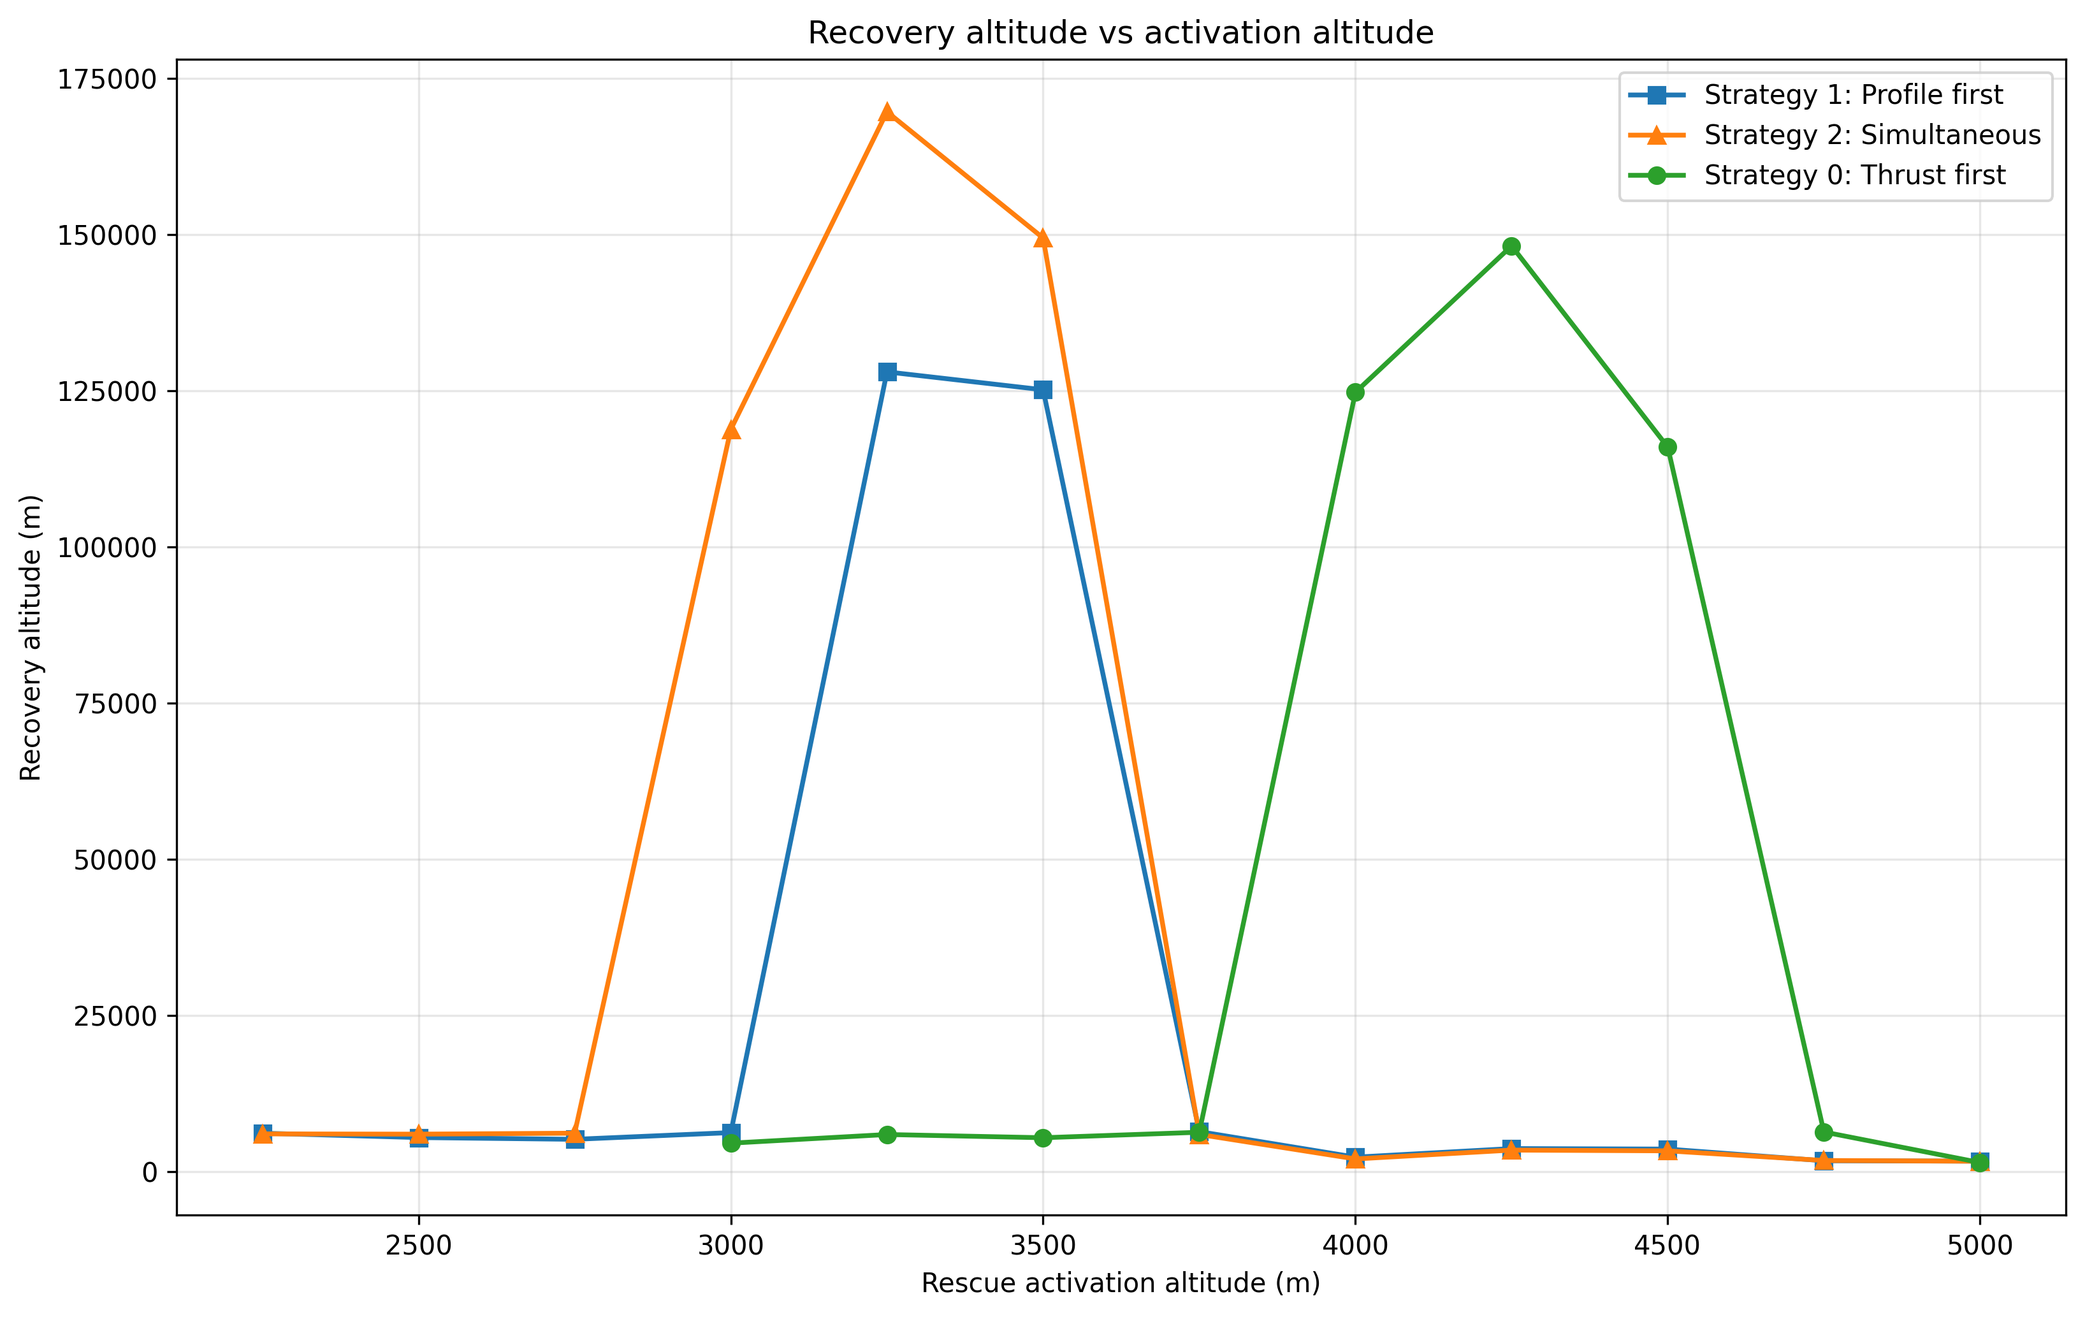
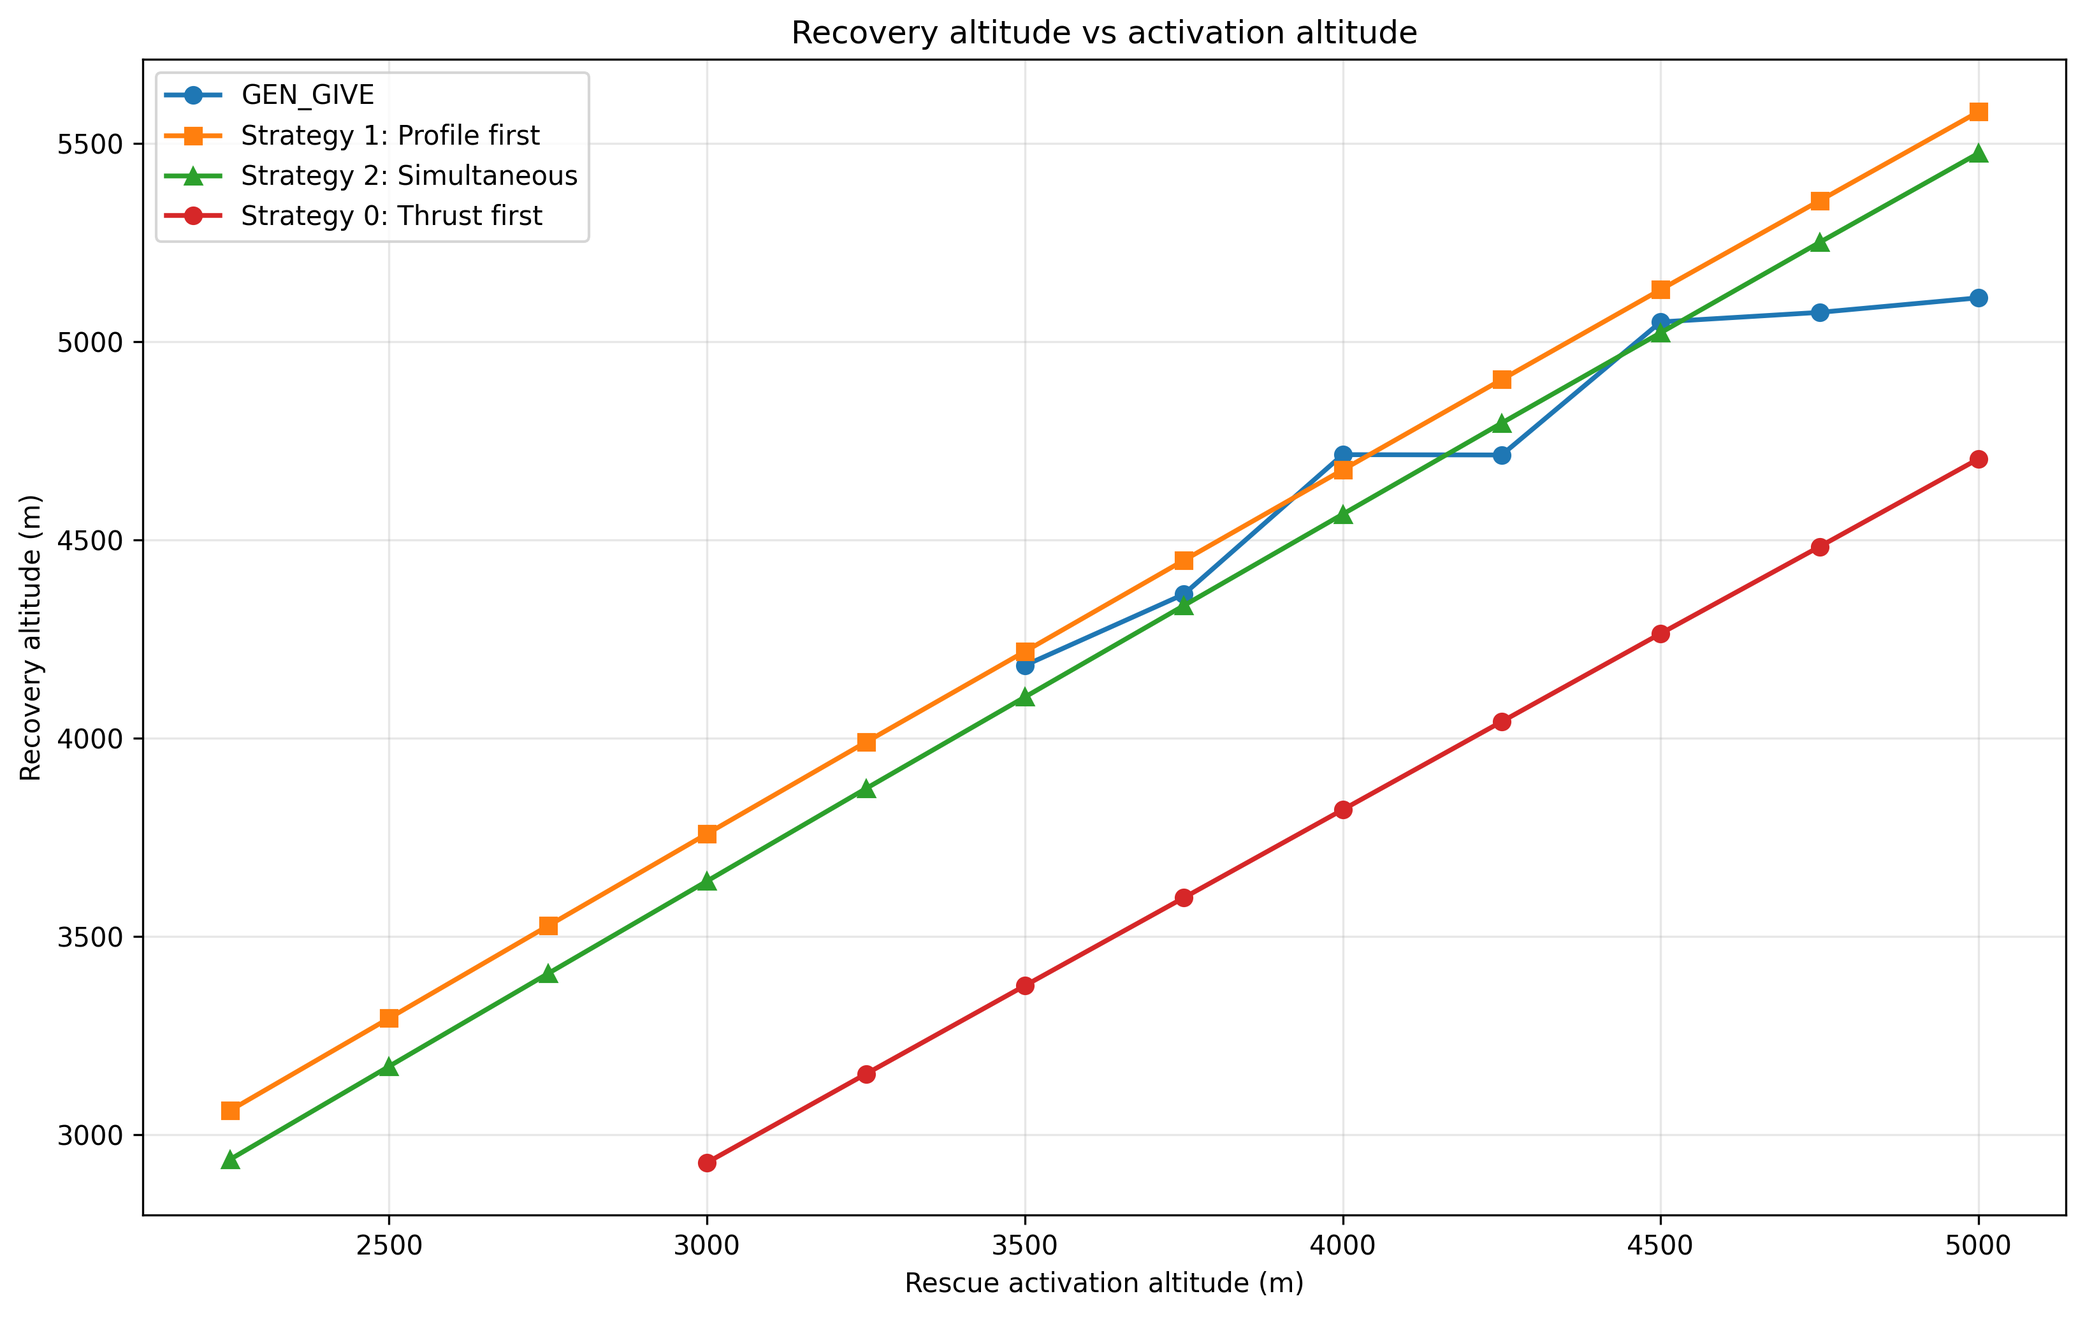
Comparaison avec les autres methodes de sauvetage + nouveau initialiseur

diff --git a/codecpp/Simulateur.cpp b/codecpp/Simulateur.cpp
@@ -270,95 +270,9 @@ double Simulateur::executer(OptiSauvetageGeneral::ParamsRescue* chromo) {  // em
             }
         }
         
-        // End rescue management
-        
-        // Multi-phase sequence before stall: AF447-like scenario
-        // Phase 0 (10s): Autopilot disconnect - passive speed loss
-        // Phase 1 (20s): Pilot increases thrust to recover speed (theta & gamma up together)
-        // Phase 2 (20s): Pilot releases thrust - speed drops again
-        // Phase 3: Stall alarm + pilot pitches up aggressively
+       
         if (!rescue_hold_active && !rescue_cooldown_active && !rescue_activated) {
-            // double phase0_start = test_cmd_start - 50.0;  // Autopilot off
-            // double phase1_start = test_cmd_start - 40.0;  // Pilot pushes thrust
-            // double phase2_start = phase1_start + 20.0;    // 20s climb guidance
             
-            // // Phase 0: Autopilot disconnect - passive energy loss (first 10s)
-            // if (t >= phase0_start && t < phase1_start) {
-            //     // thrust reduction: cmd_thrust_trim → 0.5
-            //     double thrust_factor = cmd_thrust_trim * 0.5;
-                
-            //     avion.get_controle().set_commande_profondeur(0.0);  // Elevator at trim
-            //     avion.get_controle().set_commande_thrust(thrust_factor);
-            // }
-            // // Phase 1: Guidance climb for 20s - raise gamma while holding alpha
-            // else if (t >= phase1_start && t < phase2_start) {
-            //     double t_rel = t - phase1_start;
-            //     double ramp = std::min(1.0, std::max(0.0, t_rel / 20.0));
-            //     double gamma_target = 20.0 * DEG_TO_RAD * ramp;
-            //     double alpha_target = alpha_trim;
-            //     double pitch_target = gamma_target + alpha_target;
-            //     double gamma = avion.get_etat().get_gamma();
-            //     double alpha_now = avion.get_etat().get_alpha();
-            //     double pitch_now = avion.get_pitch();
-
-            //     double k_alpha = 1.0;
-            //     double k_pitch = 2.0;
-            //     double k_gamma = 3.0;
-            //     double base_thrust = std::isnan(cmd_thrust_trim) ? 0.0 : cmd_thrust_trim;
-
-            //     double cmd_p_raw = -(k_alpha * (alpha_target - alpha_now)
-            //                       + k_pitch * (pitch_target - pitch_now));
-            //     double cmd_p = std::max(-0.4, std::min(0.4, cmd_p_raw));
-            //     double cmd_t_raw = base_thrust + 0.15 + k_gamma * (gamma_target - gamma);
-            //     double cmd_t = std::max(0.0, std::min(1.0, cmd_t_raw));
-
-            //     avion.get_controle().set_commande_profondeur(cmd_p);
-            //     avion.get_controle().set_commande_thrust(cmd_t);
-            // }
-            // // Phase 2: Return to cruise in 20s (gamma -> 0, pitch -> alpha_trim)
-            // else if (t >= phase2_start && t < test_cmd_start) {
-            //     double t_rel = t - phase2_start;
-            //     double ramp = std::min(1.0, std::max(0.0, t_rel / 20.0));
-                
-            //     // Capture initial conditions at start of Phase 2
-            //     static double gamma_initial_ph2 = -1.0;
-            //     static double pitch_initial_ph2 = -1.0;
-            //     if (t_rel < dt) {
-            //         gamma_initial_ph2 = avion.get_etat().get_gamma();
-            //         pitch_initial_ph2 = avion.get_pitch();
-            //     }
-                
-            //     // Target: cruise (gamma -> 0, pitch -> alpha_trim)
-            //     double pitch_final = alpha_trim;
-            //     double gamma_final = 0.0;
-                
-            //     double pitch_target = pitch_initial_ph2 - (pitch_initial_ph2 - pitch_final) * ramp;
-            //     double gamma_target = gamma_initial_ph2 - (gamma_initial_ph2 - gamma_final) * ramp;
-                
-            //     double alpha_now = avion.get_etat().get_alpha();
-            //     double pitch_now = avion.get_pitch();
-            //     double gamma = avion.get_etat().get_gamma();
-
-            //     // Alpha target: return to trim for cruise
-            //     double alpha_target = alpha_trim;
-
-            //     double k_alpha = 3.0;  // Moderate gain
-            //     double k_gamma = 4.0;
-            //     double k_pitch = 6.0;
-                
-            //     double cmd_p_raw = -(k_alpha * (alpha_target - alpha_now)
-            //                       + k_gamma * (gamma_target - gamma)
-            //                       + k_pitch * (pitch_target - pitch_now));
-            //     double cmd_p = std::max(-0.4, std::min(0.4, cmd_p_raw));
-                
-            //     // Thrust returns to trim for cruise
-            //     double base_thrust = std::isnan(cmd_thrust_trim) ? 0.0 : cmd_thrust_trim;
-            //     double cmd_t = base_thrust;
-            //     cmd_t = std::max(0.0, std::min(1.0, cmd_t));
-
-            //     avion.get_controle().set_commande_profondeur(cmd_p);
-            //     avion.get_controle().set_commande_thrust(cmd_t);
-            // }
             // Phase 3: Stall alarm - pilot inputs aggressive elevator command (EXPONENTIAL ramp)
             if (t >= test_cmd_start && t < test_cmd_end) {
                 double ramp_duration = 45.0;  // seconds to reach ~99% of final value

diff --git a/plotting/plot_rescue_comparison.py b/plotting/plot_rescue_comparison.py
@@ -3,7 +3,7 @@ import matplotlib.pyplot as plt
 import numpy as np
 from pathlib import Path
 
-# from typing import Optional  # ← ajouter cette ligne pour etre valable sur des anciens pythons
+from typing import Optional  # can be remove if there is compatibility issue
 
 # Improve default font sizes for better readability
 plt.rcParams.update({
@@ -36,7 +36,7 @@ def normalize_positive(series: pd.Series) -> pd.Series:
     return series / max_val
 
 
-def pick_column(df: pd.DataFrame, preferred: str, fallback: str) -> str | None:   #  def pick_column(df: pd.DataFrame, preferred: str, fallback: str) -> Optional[str]:
+def pick_column(df: pd.DataFrame, preferred: str, fallback: str) -> Optional[str]:  #If optionnal is not included, this line need to be replace by  : def pick_column(df: pd.DataFrame, preferred: str, fallback: str) -> str | None: 
     if preferred in df.columns:
         return preferred
     if fallback in df.columns:
@@ -49,17 +49,14 @@ def main() -> None:
     output_dir = root / "output_file"
     output_plot_dir = root / "output_plot"
     output_plot_dir.mkdir(parents=True, exist_ok=True)
-
     datasets = {
-        "No rescue": output_dir / "baseline_no_rescue.csv",
-        "Strategy 0: Thrust first": output_dir / "strategy0_thrust_first.csv",
-        "Strategy 1: Profile first": output_dir / "strategy1_profile_first.csv",
+        "Strategy 3: Genetic Algorithm": output_dir / "strategy3_genetic_algorithm.csv",
         "Strategy 2: Simultaneous": output_dir / "strategy2_simultaneous.csv",
-        "Strategy 3: Genetic Algorithm": output_dir / "strategy3_genetic_algorithm.csv",  #new for genetic alg (only addition)
+        "Strategy 1: Profile first": output_dir / "strategy1_profile_first.csv",
+        "Strategy 0: Thrust first": output_dir / "strategy0_thrust_first.csv",
+        "No rescue": output_dir / "baseline_no_rescue.csv",
     }
-
     data = {label: load_csv(path) for label, path in datasets.items()}
-
     fig, axes = plt.subplots(4, 1, figsize=(11, 8), sharex=True)
 
     # Altitude comparison for all curves
@@ -69,9 +66,8 @@ def main() -> None:
     axes[0].set_ylabel("Altitude (m)")
     axes[0].set_title("Comparison of rescue strategies", fontsize=16)
     axes[0].grid(True, alpha=0.3)
-    axes[0].legend()
 
-    # Angle of attack comparison (inserted between altitude and thrust)
+    # Angle of attack comparison
     alpha_candidates = ["alpha", "alpha_deg", "alpha_rad", "angle_of_attack", "AoA", "alpha(deg)"]
     for label, df in data.items():
         alpha_col = None
@@ -80,20 +76,17 @@ def main() -> None:
                 alpha_col = cand
                 break
         if alpha_col is None:
-            # try case-insensitive search for 'alpha'
             for col in df.columns:
                 if col.lower().startswith("alpha") or "angle" in col.lower() and "attack" in col.lower():
                     alpha_col = col
                     break
         if alpha_col is not None:
             vals = df[alpha_col].copy()
-            # convert radians to degrees when appropriate
             if "rad" in alpha_col.lower() or vals.abs().max() <= 0.5:
                 vals = np.degrees(vals)
             axes[1].plot(df["time"], vals, label=label, linewidth=1.4)
     axes[1].set_ylabel(r"$\alpha$ (deg)")
     axes[1].grid(True, alpha=0.3)
-    axes[1].legend()
 
     # Normalized thrust/traction comparison
     for label, df in data.items():
@@ -103,7 +96,6 @@ def main() -> None:
             axes[2].plot(df["time"], thrust_norm, label=label, linewidth=1.4)
     axes[2].set_ylabel("cmd_T")
     axes[2].grid(True, alpha=0.3)
-    axes[2].legend()
 
     # Elevator command comparison
     for label, df in data.items():
@@ -112,14 +104,21 @@ def main() -> None:
     axes[3].set_xlabel("Time (s)")
     axes[3].set_ylabel("cmd_p")
     axes[3].grid(True, alpha=0.3)
-    axes[3].legend()
 
-    # Add a single main title (English) and position it closer to the subplots
-    
-    plt.tight_layout(rect=[0, 0, 1, 0.94])
+    # --- Single shared legend at the bottom ---
+    handles, labels = axes[0].get_legend_handles_labels()
+    fig.legend(
+        handles, labels,
+        loc="lower center",
+        ncol=3,
+        bbox_to_anchor=(0.5, 0.0),
+        frameon=True,
+        fontsize=12,
+    )
+
+    plt.tight_layout(rect=[0, 0.08, 1, 0.97])  # bottom margin reserved for legend
     fig.savefig(output_plot_dir / "rescue_comparison.png", dpi=300, bbox_inches="tight")
     plt.show()
-
 
 if __name__ == "__main__":
     main()

diff --git a/main.cpp b/main.cpp
@@ -43,14 +43,23 @@ int main() {
 
     if (config.hasOperations("GENERAL_GEN_FIND")) { 
         
+        // Verification des fichiers dès le début
+        check_output_file(config.getString("rescue_gen_file"));
+        const std::string log_path = check_output_file(config.getString("gen_log_file"));
+        // Efface le fichier au début (sinon append sur un ancien run)
+        { std::ofstream f(log_path); f << "generation,chromosome,altitude,temps,fitness,taille\n"; }
+
         std::string Initial_quiet_optimizer_logs = config.getString("quiet_optimizer_logs");
         config.setString("quiet_optimizer_logs","true");
         std::srand(static_cast<unsigned>(std::time(nullptr))); // seed differentes pour chaque essai
         // Initialisation de la population vide et de chaque chrosomes se fait dans le constructuer
-        OptiSauvetageGeneral gen_opti_strat;
+        OptiSauvetageGeneral gen_opti_strat (   
+            static_cast<int>(config.getDouble("gen_nbr_chr")),
+            static_cast<int>(config.getDouble("gen_nbr_generation")),
+            static_cast<int>(config.getDouble("gen_nbr_chr_kept")),
+            static_cast<int>(config.getDouble("gen_mutationRate_times100"))
+        ); 
 
-        gen_opti_strat.set_Nbr_generation(static_cast<int>(config.getDouble("gen_nbr_generation")));
-        gen_opti_strat.set_Nbr_chr(static_cast<int>(config.getDouble("gen_nbr_chr")));
         
         int nbr_generation=gen_opti_strat.get_Nbr_generation();
         int nbr_chrom=gen_opti_strat.get_Nbr_chr();
@@ -66,18 +75,12 @@ int main() {
         );
         Simulateur sim(avion, 
                         config.getDouble("dt"), config.getDouble("duree"), 
-                        check_output_file("output_file/test_simulation_full_chr_xgen.csv"), 
+                        check_output_file("output_file/tampon_simulation_full_chr_xgen.csv"), 
                         config.getDouble("cmd_profondeur"), config.getDouble("cmd_thrust"), 
                         config.getDouble("cmd_start"), config.getDouble("cmd_end"),
                         true,
                         config.getDouble("seuil_altitude_critique")); /// ajouter ça aux autres simus
 
-        // à refaire
-        // Déclaré avant la boucle de générations
-        const std::string log_path = check_output_file(config.getString("gen_log_file"));
-        // Efface le fichier au début (sinon append sur un ancien run)
-        { std::ofstream f(log_path); f << "generation,chromosome,altitude,temps,fitness,taille\n"; }
-        //
 
         for (int i=0; i<nbr_generation; i++){
             std::cout<<"Generation n°"<<i<<std::endl;
@@ -345,7 +348,7 @@ int main() {
                 Avion avion(config.getDouble("surface"), config.getDouble("corde"), config.getDouble("masse"), config.getBool("useHysteresis"));
                 avion.initialiser(config.getDouble("vx_ini"), config.getDouble("z_ini"));
 
-                const std::string sim_path = "output_file/min_rescue_altitude_" + strategy.second + "_a" + std::to_string(static_cast<int>(activation_alt)) + ".csv";
+                const std::string sim_path = "output_file/raw_data_min_alt/min_rescue_altitude_" + strategy.second + "_a" + std::to_string(static_cast<int>(activation_alt)) + ".csv";
                 Simulateur sim(avion,
                                config.getDouble("dt"), config.getDouble("duree"),
                                check_output_file(sim_path),

diff --git a/codecpp/OptiSauvetageGeneral.cpp b/codecpp/OptiSauvetageGeneral.cpp
@@ -28,12 +28,19 @@ OptiSauvetageGeneral::ParamsRescue::ParamsRescue() {
 }
 
 OptiSauvetageGeneral::OptiSauvetageGeneral(){
-    population.resize(Nbr_chr);
 }
 
 OptiSauvetageGeneral::OptiSauvetageGeneral(const int nbr_chr) : 
     Nbr_chr(nbr_chr), Nbr_chr_kept(1), MutationRate_times100(0)
 {  // Attention, à n'utiliser que pour une simu où l'on a télécharger le chromosome, sinon cela va créer des erreurs avec la différence entre population size et Nbr_chr dans la config_gen
+    population.resize(nbr_chr);
+}
+
+OptiSauvetageGeneral::OptiSauvetageGeneral(const int nbr_chr, const int nbr_gen, const int nbr_chr_kept, const int mutationRate) {
+    Nbr_chr = nbr_chr ; 
+    Nbr_generation = nbr_gen ;
+    Nbr_chr_kept = nbr_chr_kept ;
+    MutationRate_times100 =  mutationRate ;
     population.resize(nbr_chr);
 }
 
@@ -60,6 +67,15 @@ void OptiSauvetageGeneral::set_Nbr_chr(int n) {
     Nbr_chr = n;
     population.resize(n);
 }
+
+void OptiSauvetageGeneral::set_MutationRate_times100(int n) {
+    MutationRate_times100 = n;
+}
+
+void OptiSauvetageGeneral::set_Nbr_chr_kept(int n) {
+    Nbr_chr_kept = n;
+}
+
 
 
 // gestion fichier
@@ -171,7 +187,8 @@ std::vector<OptiSauvetageGeneral::ParamsRescue> OptiSauvetageGeneral::SortAndKee
         [](const OptiSauvetageGeneral::ParamsRescue& a, const OptiSauvetageGeneral::ParamsRescue& b) {   // [] = fonction lambda en python
             return a.fitness > b.fitness;
         });
-    if (int(Population_select.size()) <Nbr_chr_kept) {  // debugage
+        
+        if (int(Population_select.size()) <Nbr_chr_kept) {  // debugage
         throw std::runtime_error("Problème taille dans SortAndKeep, size(pop parent)<nbr chromo kept");
     }
 

diff --git a/entetes/OptiSauvetageGeneral.h b/entetes/OptiSauvetageGeneral.h
@@ -41,10 +41,10 @@ class OptiSauvetageGeneral {
             };
             
     private :
-        int Nbr_chr = 350 ; /// nombre de chromosomes = nbr d'avions simulés
-        int Nbr_chr_kept = 60 ; // nombre de chromosomes gardés selon la fitness pour repeupler
-        int MutationRate_times100 = 7 ; // nbr de genes touchés en %*100
-        int Nbr_generation = 10;
+        int Nbr_chr; /// nombre de chromosomes = nbr d'avions simulés
+        int Nbr_chr_kept; // nombre de chromosomes gardés selon la fitness pour repeupler
+        int MutationRate_times100; // nbr de genes touchés en %*100
+        int Nbr_generation;
 
         ParamsRescue Croisement(const ParamsRescue chromo_m, const ParamsRescue chromo_p);
         ParamsRescue Mutation( ParamsRescue chromo);
@@ -70,13 +70,16 @@ class OptiSauvetageGeneral {
 
         OptiSauvetageGeneral();
         OptiSauvetageGeneral(const int nbr_chr);
+        OptiSauvetageGeneral(const int nbr_chr, const int nbr_gen, const int nbr_chr_kept, const int mutationRate);
         ~OptiSauvetageGeneral();
 
         int get_Nbr_chr() const;
         int get_Nbr_chr_kept() const;
         int get_Nbr_generation() const;
-    void set_Nbr_generation(int n);
-    void set_Nbr_chr(int n);
+        void set_Nbr_generation(int n);
+        void set_Nbr_chr(int n);
+        void set_MutationRate_times100(int n);
+        void set_Nbr_chr_kept(int n);
 
 };
 

diff --git a/codecpp/Constantes.cpp b/codecpp/Constantes.cpp
@@ -71,8 +71,10 @@ void Config::completer() {
     params.insert({"cmd_thrust",               "1.0"});
     params.insert({"enable_rescue_system",         "false"});
     params.insert({"quiet_optimizer_logs",         "false"});
-        params.insert({"gen_nbr_generation",           "5"});
-        params.insert({"gen_nbr_chr",                  "30"});
+    params.insert({"gen_nbr_generation",           "9"});
+    params.insert({"gen_nbr_chr",                  "60"});
+    params.insert({"gen_nbr_chr_kept",            "12"});
+    params.insert({"gen_mutationRate_times100",    "7"});
     params.insert({"dt",                  "0.01"});
     params.insert({"duree",               "600.0"});
 
